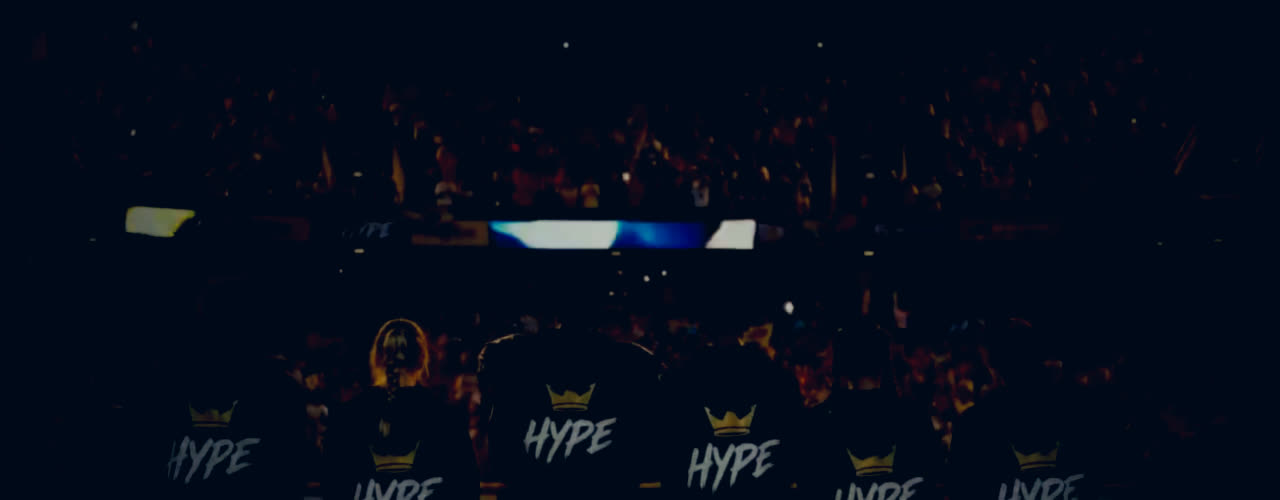
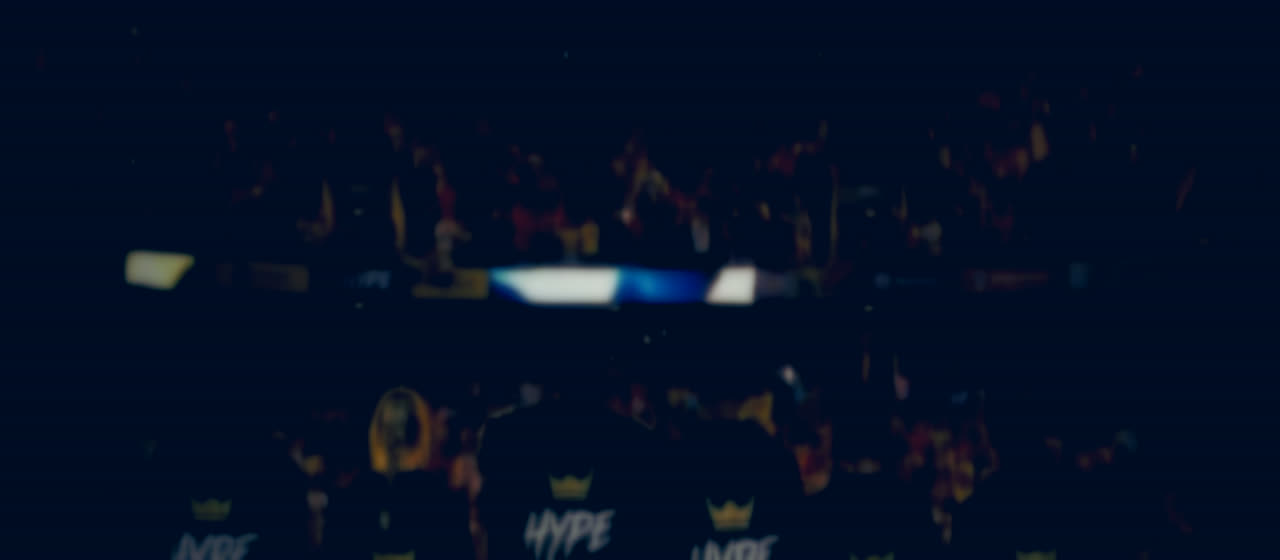
Round 54 + 55: board layout, sports row restored, Rep The Hype band

diff --git a/public/index.html b/public/index.html
@@ -11,7 +11,7 @@
 <link rel="preconnect" href="https://fonts.googleapis.com" />
 <link rel="preconnect" href="https://fonts.gstatic.com" crossorigin />
 <link href="https://fonts.googleapis.com/css2?family=Anton&family=Archivo:ital,wght@0,500;0,600;0,700;0,800;1,600&display=swap" rel="stylesheet" />
-<link rel="stylesheet" href="styles.css?v=54" />
+<link rel="stylesheet" href="styles.css?v=56" />
 </head>
 <body>
 
@@ -124,6 +124,38 @@
     </div>
 
 
+
+    <!-- Round 54 (2026-11-08, Emil): Browse by Sport back
+         ABOVE the videos (the Round 47 placement he prefers);
+         it spent one round under the tiles (53). Tapping a sport
+         jumps to the All Hypes board filtered to it. -->
+    <div class="browse-sports">
+      <div class="browse-head">
+        <h3>Browse by sport</h3>
+      </div>
+      <div class="sport-row" role="group" aria-label="Browse plays by sport">
+        <button type="button" onclick="goToSportBoard('baseball')">Baseball</button>
+        <button type="button" onclick="goToSportBoard('basketball')">Basketball</button>
+        <button type="button" onclick="goToSportBoard('cheer')">Cheer</button>
+        <button type="button" onclick="goToSportBoard('dance')">Dance</button>
+        <button type="button" onclick="goToSportBoard('fieldhockey')">Field Hockey</button>
+        <button type="button" onclick="goToSportBoard('football')">Football</button>
+        <button type="button" onclick="goToSportBoard('golf')">Golf</button>
+        <button type="button" onclick="goToSportBoard('gymnastics')">Gymnastics</button>
+        <button type="button" onclick="goToSportBoard('hockey')">Hockey</button>
+        <button type="button" onclick="goToSportBoard('lacrosse')">Lacrosse</button>
+        <button type="button" onclick="goToSportBoard('martialarts')">Martial Arts</button>
+        <button type="button" onclick="goToSportBoard('other')">Other</button>
+        <button type="button" onclick="goToSportBoard('soccer')">Soccer</button>
+        <button type="button" onclick="goToSportBoard('softball')">Softball</button>
+        <button type="button" onclick="goToSportBoard('swimming')">Swimming</button>
+        <button type="button" onclick="goToSportBoard('tennis')">Tennis</button>
+        <button type="button" onclick="goToSportBoard('track')">Track &amp; Field</button>
+        <button type="button" onclick="goToSportBoard('volleyball')">Volleyball</button>
+        <button type="button" onclick="goToSportBoard('wrestling')">Wrestling</button>
+      </div>
+    </div>
+
     <div class="viewseg" role="group" aria-label="Board views — Hype of the Month, Hall of Fame, All Hypes">
       <button type="button" data-view="month" aria-pressed="true">Hype of the Month</button>
       <button type="button" data-view="fame" aria-pressed="false">Hall of Fame</button>
@@ -179,36 +211,6 @@
          Hypes view. Round 53: it sits below Browse by Sport. -->
     <div class="board-under" id="boardUnder">
 
-    <!-- Round 53 (2026-11-08, Emil): Browse by Sport sits under
-         the videos again, with See all plays below it — the
-         concept mock's board order (featured, tiles, browse,
-         see all). It was above the videos for one round (47). -->
-    <div class="browse-sports">
-      <div class="browse-head">
-        <h3>Browse by sport</h3>
-      </div>
-      <div class="sport-row" role="group" aria-label="Browse plays by sport">
-        <button type="button" onclick="goToSportBoard('baseball')">Baseball</button>
-        <button type="button" onclick="goToSportBoard('basketball')">Basketball</button>
-        <button type="button" onclick="goToSportBoard('cheer')">Cheer</button>
-        <button type="button" onclick="goToSportBoard('dance')">Dance</button>
-        <button type="button" onclick="goToSportBoard('fieldhockey')">Field Hockey</button>
-        <button type="button" onclick="goToSportBoard('football')">Football</button>
-        <button type="button" onclick="goToSportBoard('golf')">Golf</button>
-        <button type="button" onclick="goToSportBoard('gymnastics')">Gymnastics</button>
-        <button type="button" onclick="goToSportBoard('hockey')">Hockey</button>
-        <button type="button" onclick="goToSportBoard('lacrosse')">Lacrosse</button>
-        <button type="button" onclick="goToSportBoard('martialarts')">Martial Arts</button>
-        <button type="button" onclick="goToSportBoard('other')">Other</button>
-        <button type="button" onclick="goToSportBoard('soccer')">Soccer</button>
-        <button type="button" onclick="goToSportBoard('softball')">Softball</button>
-        <button type="button" onclick="goToSportBoard('swimming')">Swimming</button>
-        <button type="button" onclick="goToSportBoard('tennis')">Tennis</button>
-        <button type="button" onclick="goToSportBoard('track')">Track &amp; Field</button>
-        <button type="button" onclick="goToSportBoard('volleyball')">Volleyball</button>
-        <button type="button" onclick="goToSportBoard('wrestling')">Wrestling</button>
-      </div>
-    </div>
       <p class="see-all-row" id="seeAllRow"><a href="#deck" class="see-all-link" onclick="event.preventDefault();seeAllPlays()">See all plays →</a></p>
     </div>
 
@@ -615,29 +617,21 @@
   </div>
 </div>
 
-<!-- ============ STORE ENTRY CARD ============ -->
+<!-- ============ REP THE HYPE (Round 55, 2026-11-08) ============
+     The mock's photo band replaces the Drop 001 film card: the
+     swag film is OFF the home page for now (the file stays on
+     the server to use again later, per Emil). One photo, three
+     lines, one link — the whole band opens the Store. -->
 <div class="store-cta view-home">
-  <div class="wrap">
-    <article class="store-card" aria-label="Wear The Hype — the Drop 001 store">
-      <div class="store-card-media">
-        <video src="/swag-film.mp4" poster="/swag-poster-v6.jpg" autoplay muted loop playsinline preload="metadata" aria-label="Drop 001 swag film — youth wearing the Hype Girls and Hype Boys Drop 001 hoodies"></video>
-        <span class="store-card-badge"><span class="dot"></span> Drop 001 · The Film</span>
-      </div>
-      <div class="store-card-body">
-        <span class="sec-tag" style="margin-bottom:0">Rep The Hype · Drop 001</span>
-        <h2>Rep the <span class="lime">hype</span></h2>
-        <p>Bold, youth-first apparel that turns community into identity. The film, the lookbook, and both collections live in the Store.</p>
-        <div class="store-cta-actions">
-          <a class="btn btn-lime btn-hero" href="#shop" data-store-link>Enter the Store</a>
-          <div class="store-cta-sub">
-            <a href="#hype-boys" data-store-link data-store-target="hype-boys">Hype Boys</a>
-            <span aria-hidden="true">·</span>
-            <a class="girls-link" href="#hype-girls" data-store-link data-store-target="hype-girls">Hype Girls</a>
-          </div>
-        </div>
-      </div>
-    </article>
-  </div>
+  <a class="rep-band" href="/store" data-store-link aria-label="Rep The Hype — Drop 001. Shop the Drop">
+    <img src="/swag/rep-hype-band.jpg" alt="A young ballplayer under stadium lights at night, wearing the black Hype Sports Baseball hoodie">
+    <span class="rep-band-shade" aria-hidden="true"></span>
+    <span class="rep-band-text">
+      <span class="rep-band-title">Rep the Hype</span>
+      <span class="rep-band-drop">Drop 001</span>
+      <span class="rep-band-link">Shop the Drop →</span>
+    </span>
+  </a>
 </div>
 
 <!-- ============ THE STORE ============ -->
@@ -967,6 +961,6 @@
   </div>
 </div>
 
-<script src="app.js?v=54"></script>
+<script src="app.js?v=56"></script>
 </body>
 </html>

diff --git a/public/styles.css b/public/styles.css
@@ -1281,8 +1281,14 @@
      (hero h1, .sec-head h2, .sec-tag, store + final + HF heads —
      edited in place above). Below: the board's featured first play,
      the under-the-clips block, and the homepage Hype Frame hero. */
-  .tile-grid > .tile:first-child{grid-column:1/-1}
-  .tile-grid > .tile:first-child .tile-title{font-size:clamp(22px,3.6vw,30px)}
+  /* Round 54 (2026-11-08): the first tile renders inside
+     .tile-featured-slot and the rest inside .tile-deck (app.js
+     boardHtml). display:contents keeps the desktop grid exactly
+     as it was — the wrappers only take layout on phones. */
+  .tile-featured-slot{display:contents}
+  .tile-deck{display:contents}
+  .tile-grid > .tile-featured-slot > .tile{grid-column:1/-1}
+  .tile-grid > .tile-featured-slot > .tile .tile-title{font-size:clamp(22px,3.6vw,30px)}
   .board-under{margin-top:20px}
   .see-all-row{margin:0 0 24px}
   .see-all-link{color:#fff;font-weight:700;font-size:16px;text-decoration:underline;text-underline-offset:4px}
@@ -1305,7 +1311,7 @@
      tile (Emil's pick); the full card keeps the long labels. */
   .tile-disc{position:absolute;left:50%;top:50%;transform:translate(-50%,-50%);z-index:1;pointer-events:none;width:52px;height:52px;border-radius:50%;background:rgba(5,5,5,.45);border:2px solid rgba(255,255,255,.92);display:grid;place-items:center}
   .tile-disc svg{margin-left:2px}
-  .tile-grid > .tile:first-child .tile-disc{width:74px;height:74px}
+  .tile-grid > .tile-featured-slot > .tile .tile-disc{width:74px;height:74px}
   .tile-toprow{display:flex;align-items:flex-start;justify-content:space-between;gap:10px}
   .tile-toprow .tile-title{flex:1;min-width:0}
   .tile-title{font-style:italic;font-size:17px}
@@ -1313,18 +1319,17 @@
   .tile .votebtn[aria-pressed="true"]{background:var(--volt);color:var(--volt-ink);border-color:transparent}
   .tile-votes{justify-content:flex-end}
   .tile-hf-btn{font-size:12px;padding:5px 10px}
-  /* Round 46 (2026-11-08, Emil's pick): on PHONES the board is a
-     swipe deck, not a scroll grid — each play gets a near-full-width
-     card and the next peeks from the right edge. Desktop keeps the
-     comparative grid untouched (same markup, arrangement only).
-     The featured span rule is grid-only and simply doesn't apply
-     in the flex deck; the first card is sized up instead. */
+  /* Round 54 (2026-11-08, Emil): on PHONES the board takes the
+     mock's shape — the featured play sits LARGE and static on
+     top, and the rest run smaller in a two-up swipe deck under
+     it (Round 46's one-big-deck is superseded). Desktop keeps
+     the comparative grid untouched. */
   @media (max-width:699px){
-    .tile-grid{display:flex;flex-direction:row;overflow-x:auto;scroll-snap-type:x mandatory;gap:12px;padding-bottom:8px;scrollbar-width:none}
-    .tile-grid::-webkit-scrollbar{display:none}
-    .tile-grid > .tile{flex:0 0 90%;scroll-snap-align:start}
-    .tile-grid > .tile:first-child{flex-basis:97%}
-    .tile-grid > .tile:only-child{flex-basis:100%}
+    .tile-grid{display:block}
+    .tile-featured-slot{display:block;margin-bottom:12px}
+    .tile-deck{display:flex;flex-direction:row;overflow-x:auto;scroll-snap-type:x mandatory;gap:12px;padding-bottom:8px;scrollbar-width:none}
+    .tile-deck::-webkit-scrollbar{display:none}
+    .tile-deck > .tile{flex:0 0 47.5%;scroll-snap-align:start}
   }
   /* Round 47 (2026-11-08): the Browse by Sport row now sits above
      the videos — a little air under the board intro, and breathing
@@ -1378,16 +1383,16 @@
     .shop .hs-grid{grid-template-columns:repeat(2,1fr);gap:12px}
     .hs-hero .hs-hero-img{object-position:50% 42%}
   }
-  /* ---- Round 53 (2026-11-08): the BOARD takes the mock's
+  /* ---- Round 53/54 (2026-11-08): the BOARD takes the mock's
      atmosphere — a stadium-crowd backdrop (a frame from Emil's
-     own B15 lineup shot, graded dark and teal) fading down the
-     board; Browse by Sport back under the tiles with See all
-     plays below it. ---- */
+     own B15 lineup shot, blurred and graded dark teal in 54)
+     fading down the board. (Browse by Sport spent one round
+     under the tiles in 53; Emil restored it above the videos
+     in 54 — the base .browse-sports margin rules apply.) ---- */
   #plays{position:relative}
-  .board-bg{position:absolute;top:0;left:0;right:0;height:640px;background:url(/board-bg.jpg) center top/cover no-repeat;opacity:.5;pointer-events:none;-webkit-mask-image:linear-gradient(180deg,#000 20%,transparent 97%);mask-image:linear-gradient(180deg,#000 20%,transparent 97%)}
+  .board-bg{position:absolute;top:0;left:0;right:0;height:780px;background:url(/board-bg.jpg?v=2) center top/cover no-repeat;opacity:.55;pointer-events:none;-webkit-mask-image:linear-gradient(180deg,#000 20%,transparent 97%);mask-image:linear-gradient(180deg,#000 20%,transparent 97%)}
   #plays .wrap{position:relative;z-index:1}
   .sport-row button:last-child{border-right:0}
-  .board-under .browse-sports{margin:30px 0 6px}
   /* Round 48 (2026-11-08): the homepage Hype Frame film under a
      cream-hoodie cover. The box is the film's own 16:9, so the tap
      swaps cover for film with no layout shift; the cover image is
@@ -1892,3 +1897,16 @@
     .hsv-size{flex:1 1 30%;min-height:56px;font-size:16px}
     .hsv-info h4{font-size:30px}
   }
+
+  /* ---- Round 55 (2026-11-08, Emil): REP THE HYPE takes the
+     mock's photo band — full-bleed night-game photo, three lines
+     over a left shade, the whole band is the Store link. The
+     Drop 001 swag film leaves the home page (file kept). ---- */
+  .store-cta{padding:0;background:transparent;border-top:0}
+  .rep-band{position:relative;display:block;overflow:hidden;text-decoration:none}
+  .rep-band img{display:block;width:100%;height:min(54vw,440px);object-fit:cover;object-position:72% 50%}
+  .rep-band-shade{position:absolute;inset:0;background:linear-gradient(90deg,rgba(3,6,10,.80) 0%,rgba(3,6,10,.45) 42%,rgba(3,6,10,0) 68%)}
+  .rep-band-text{position:absolute;left:0;top:0;bottom:0;display:flex;flex-direction:column;justify-content:center;gap:6px;padding:0 6vw}
+  .rep-band-title{font-family:"Anton",sans-serif;font-style:italic;text-transform:uppercase;color:#fff;font-size:clamp(34px,6.5vw,64px);line-height:1}
+  .rep-band-drop{font-family:"Anton",sans-serif;font-style:italic;text-transform:uppercase;color:var(--gold);font-size:clamp(18px,3vw,28px)}
+  .rep-band-link{color:#fff;font-weight:700;font-size:17px;text-decoration:underline;text-underline-offset:5px;margin-top:8px}

diff --git a/public/app.js b/public/app.js
@@ -584,7 +584,12 @@ function renderMonth() {
       <div class="pod-text"><div class="who">${esc(h.title)}</div><div class="what">${esc(cap(h.sport))} · ${h.division === "girls" ? "Girls" : "Boys"} · ${h.voteCount} vote${h.voteCount === 1 ? "" : "s"} this month</div></div></div>
     </div>`).join("") : `<div class="pod"><div class="pod-text"><div class="who">No entries yet this month</div><div class="what">Enter an approved play to start the board.</div></div></div>`;
   const filtered = entries.filter((h) => divMatch(h, monthDiv) && (monthSport === "all" || h.sport === monthSport));
-  $("#board").innerHTML = filtered.map((h) => tileHtml(h, { monthVotes: h.voteCount })).join("");
+  // Round 54: first tile into .tile-featured-slot, the rest into
+  // .tile-deck (display:contents on desktop, stacked + swipe deck
+  // on phones — see styles.css). Inlined at both render sites: the
+  // test suites slice these functions separately.
+  const monthTiles = filtered.map((h) => tileHtml(h, { monthVotes: h.voteCount }));
+  $("#board").innerHTML = monthTiles.length ? `<div class="tile-featured-slot">${monthTiles[0]}</div>` + (monthTiles.length > 1 ? `<div class="tile-deck">${monthTiles.slice(1).join("")}</div>` : "") : "";
   hydrateDurPills();
   $("#emptyState").style.display = filtered.length ? "none" : "block";
   /* Round 9: (a) the never-disappear line — keyed to the CURRENT
@@ -696,7 +701,8 @@ function renderAll2() { /* All Hypes view */
   $("#allCount").textContent = `${filtered.length} of ${ALL_PLAYS.length} plays`;
   const emptyEl = $("#allEmpty");
   emptyEl.textContent = "No plays match — try a different board, sport, or search.";
-  $("#allBoard").innerHTML = filtered.map((h, i) => tileHtml(h, { rank: i + 1 })).join("");
+  const allTiles = filtered.map((h, i) => tileHtml(h, { rank: i + 1 }));
+  $("#allBoard").innerHTML = allTiles.length ? `<div class="tile-featured-slot">${allTiles[0]}</div>` + (allTiles.length > 1 ? `<div class="tile-deck">${allTiles.slice(1).join("")}</div>` : "") : "";
   hydrateDurPills();
   emptyEl.style.display = filtered.length ? "none" : "block";
 }
